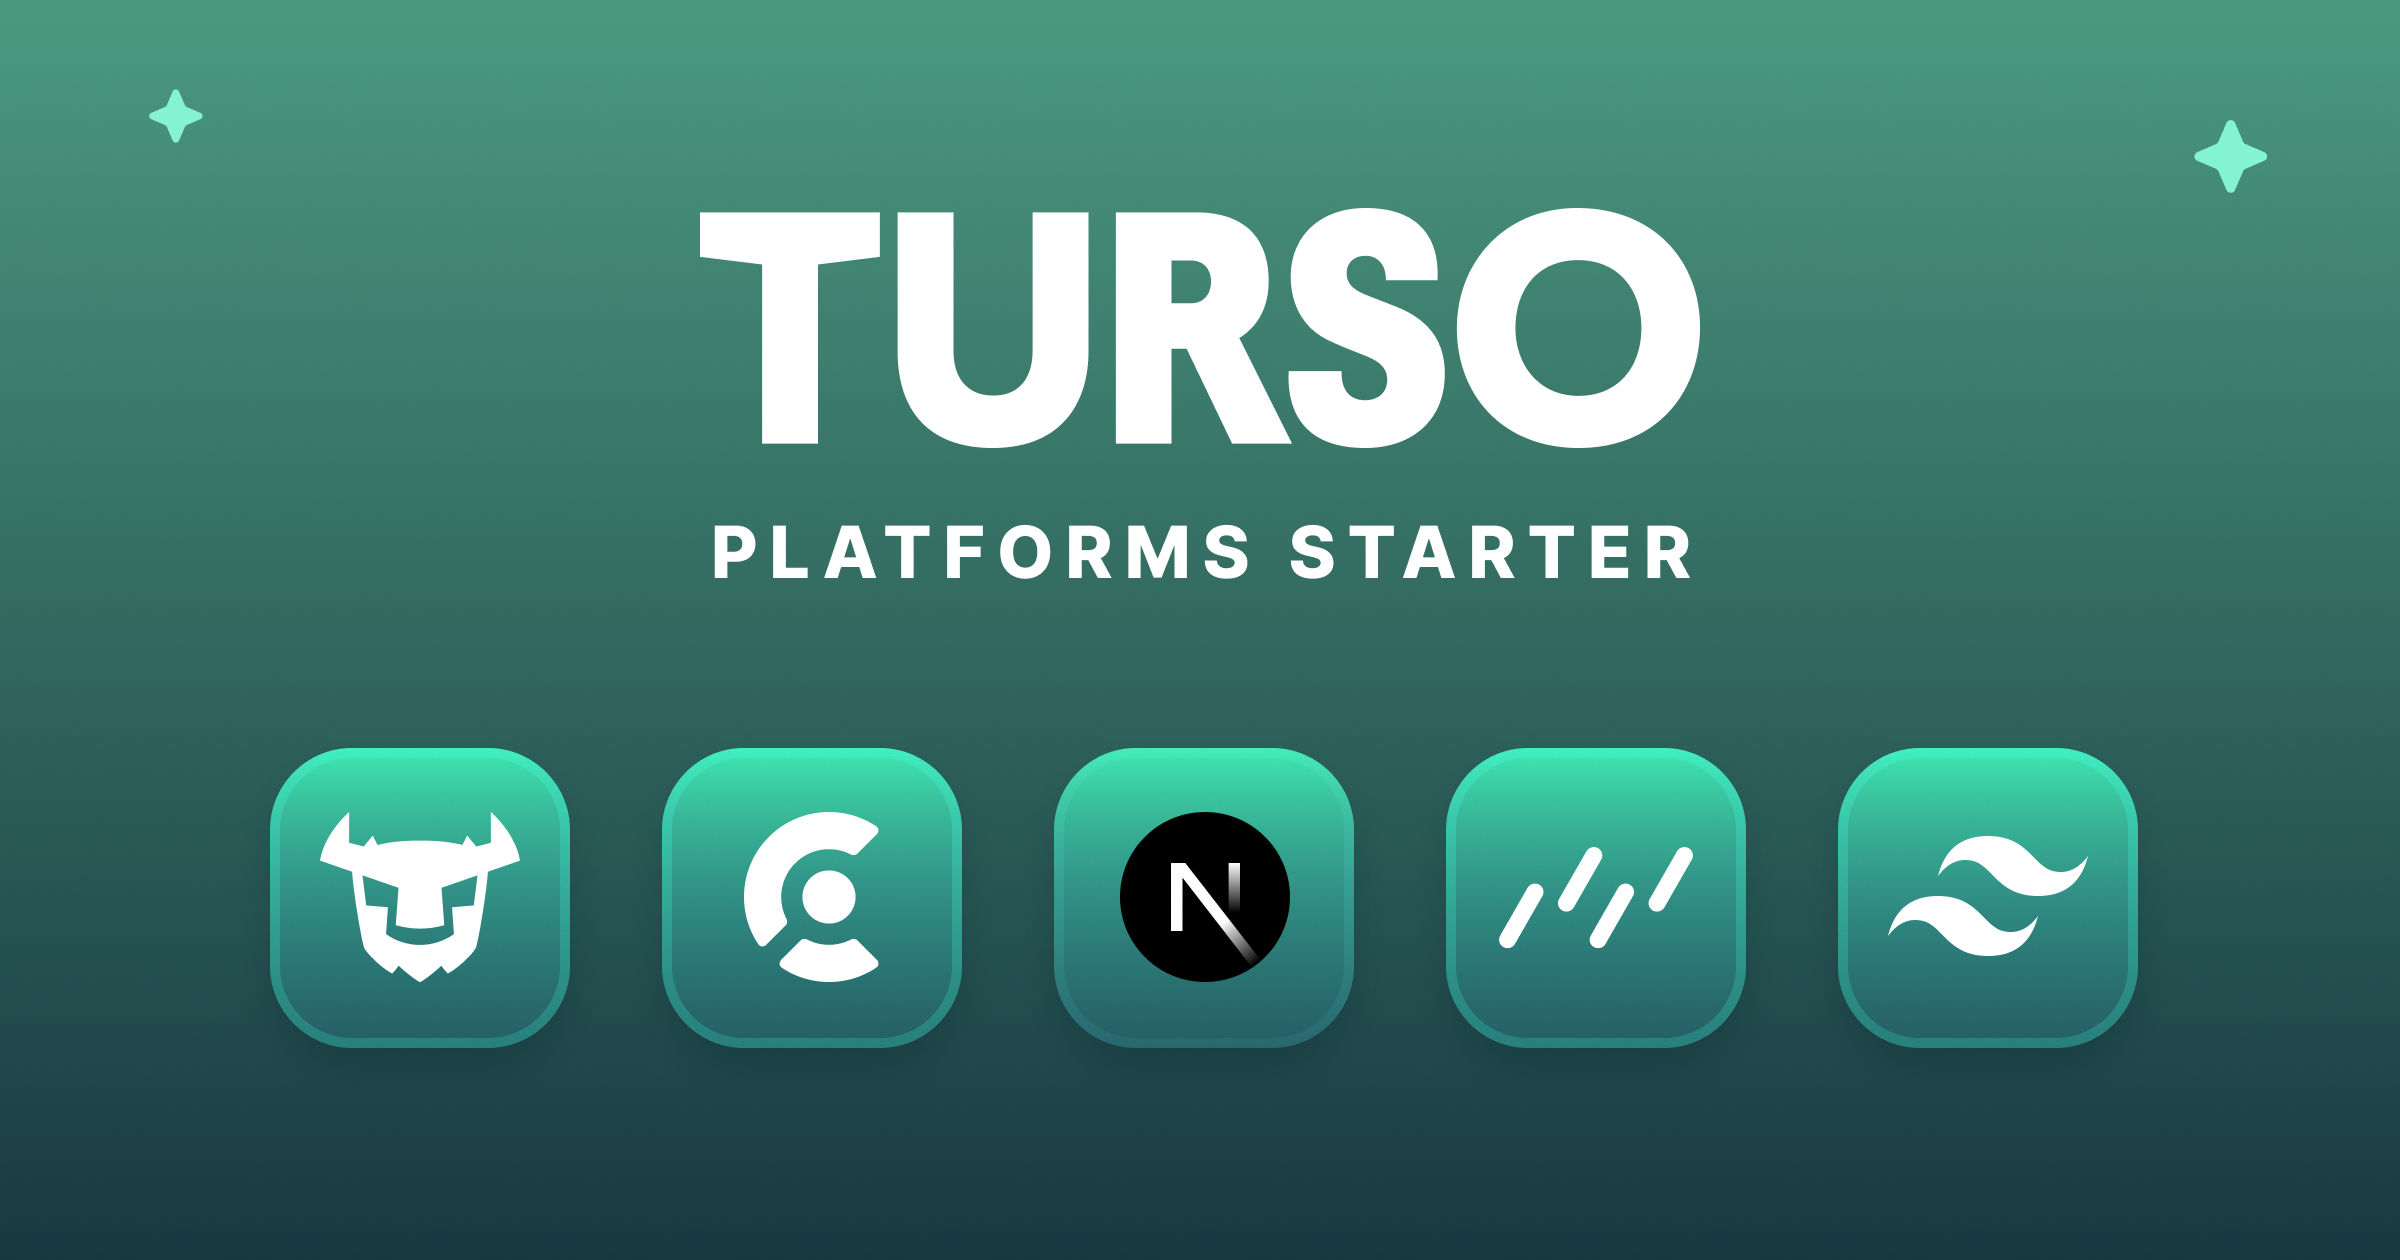
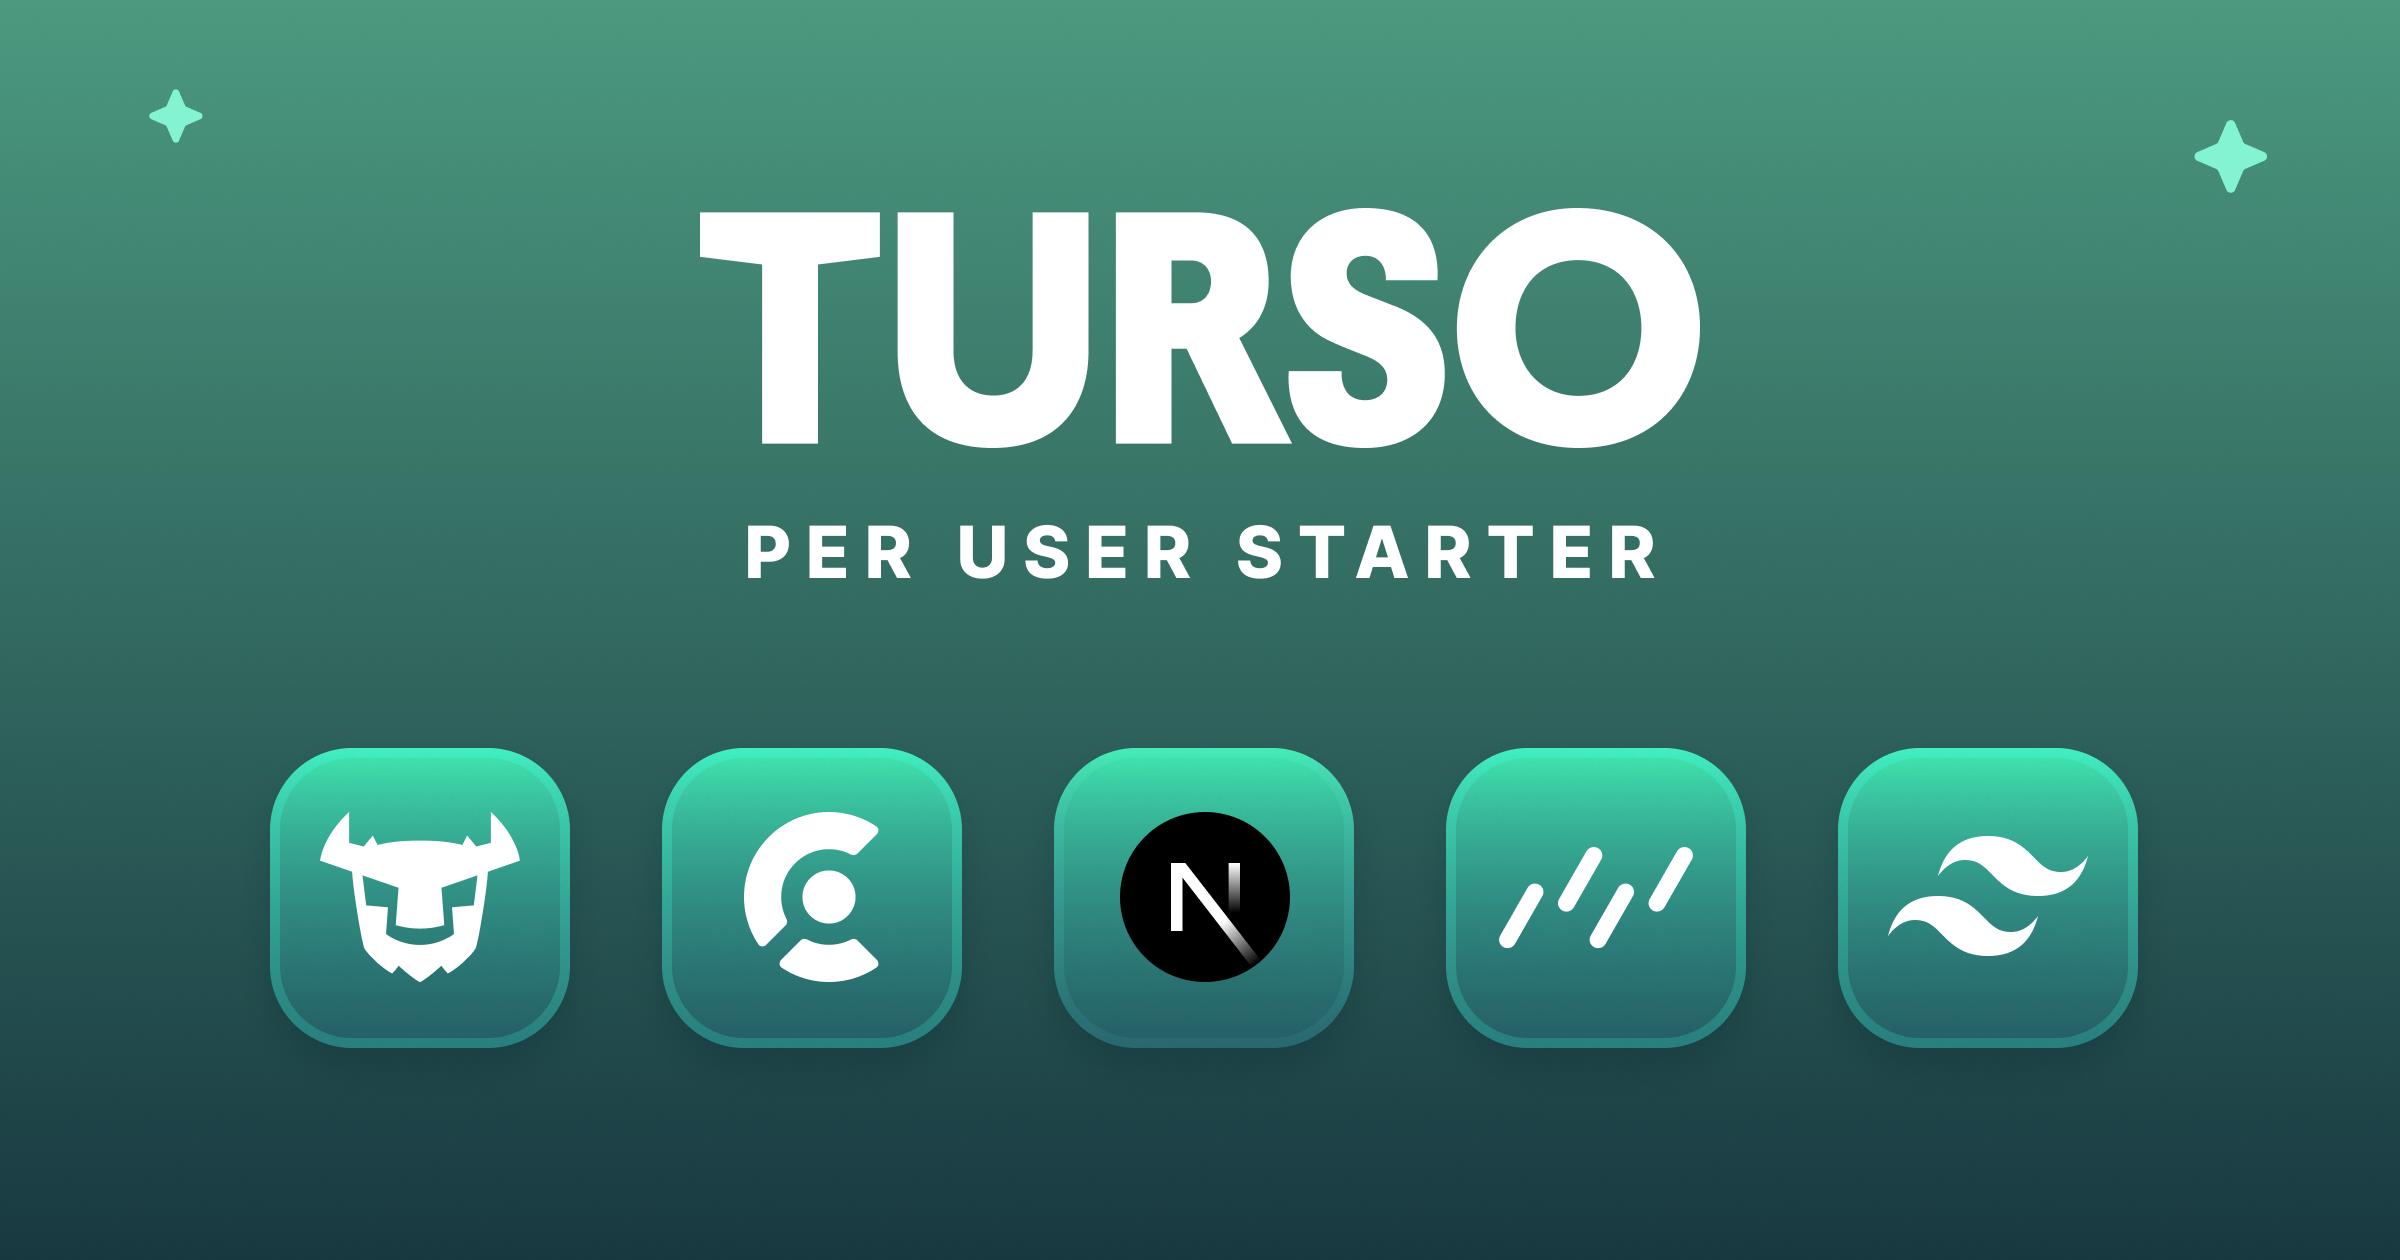
update name

Changed region(s): [[0.2812, 0.4024, 0.7188, 0.4643]]

diff --git a/app/(authenticated)/user-button.tsx b/app/(authenticated)/user-button.tsx
@@ -39,7 +39,7 @@ export function UserButton() {
           <ClerkUserButton.Link
             labelIcon={<GithubIcon />}
             label="Star repository"
-            href="https://github.com/notrab/turso-platforms-starter"
+            href="https://github.com/notrab/turso-per-user-starter"
           />
         </ClerkUserButton.MenuItems>
       </ClerkUserButton>

diff --git a/app/layout.tsx b/app/layout.tsx
@@ -7,7 +7,7 @@ import "./globals.css";
 const inter = Inter({ subsets: ["latin"], display: "swap" });
 
 export const metadata: Metadata = {
-  title: "Turso Platforms Starter",
+  title: "Turso Per User Starter",
   description: "Database per user starter with Turso, Clerk, and SQLite",
 };
 

diff --git a/README.md b/README.md
@@ -1,4 +1,4 @@
-# Turso Platforms Starter
+# Turso Per User Starter
 
 A Next.js application that demonstrates how to use the [Turso](https://turso.tech) Platforms API to create a database per user.
 
@@ -26,7 +26,8 @@ Start building your Turso powered platform in a few simple steps...
    Begin by cloning this repository to your machine:
 
    ```bash
-   git clone
+   git clone https://github.com/notrab/turso-per-user-starter.git
+   cd turso-per-user-starter
    ```
 
    </details>
